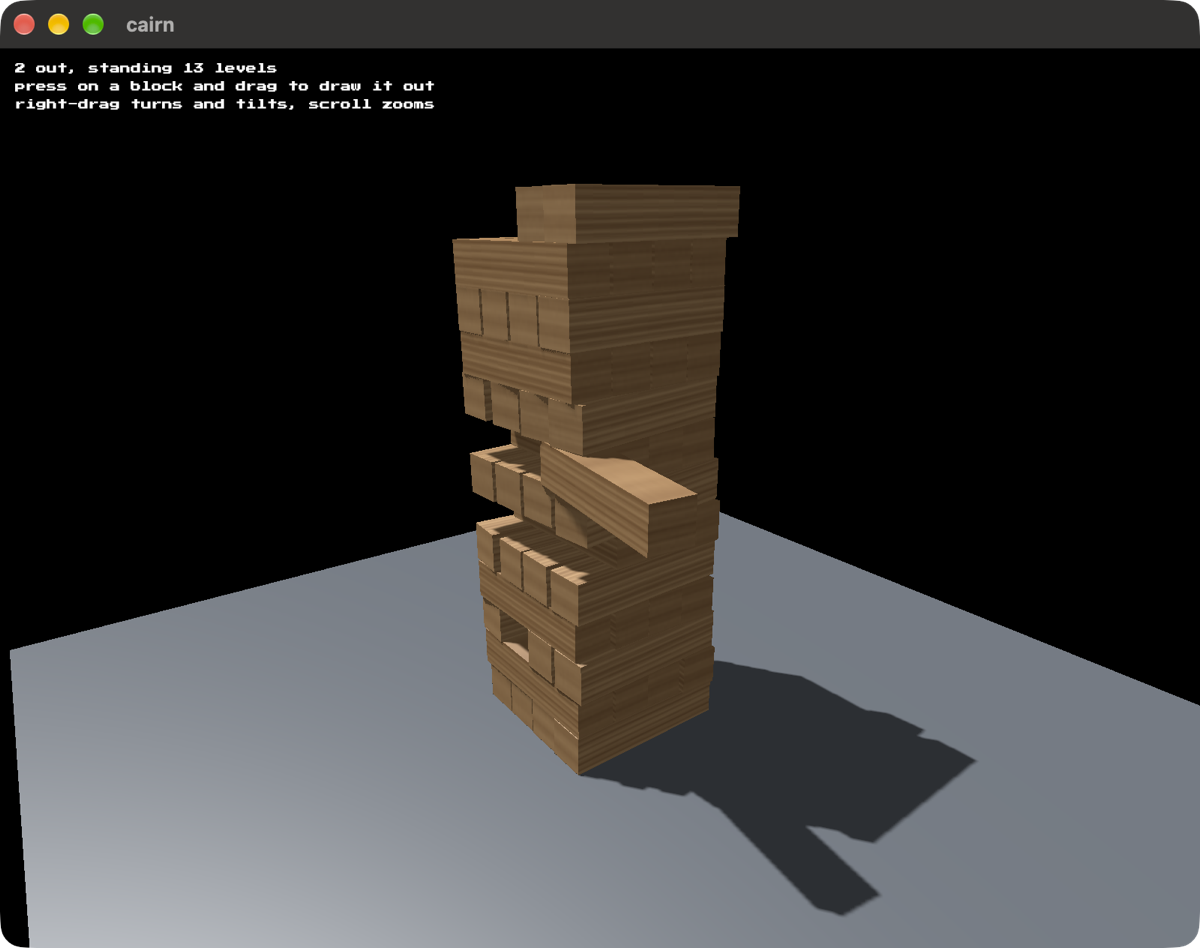
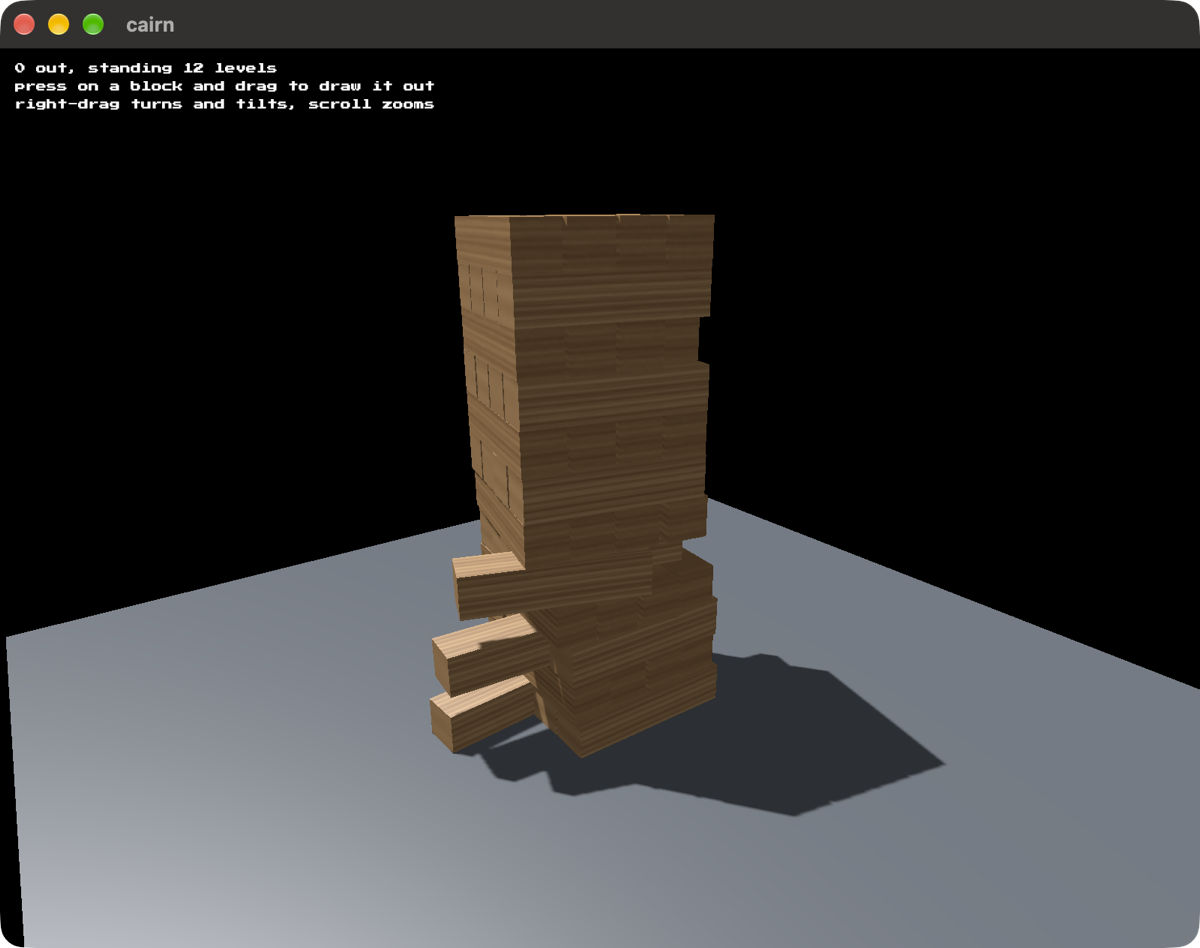
Draw blocks out for the camera
Takes --screenshot, which pulls three blocks clear and leaves a fourth proud, then holds still. The game is the holes, and the opening frame is a stack of wood nobody has touched.

diff --git a/src/main.rs b/src/main.rs
@@ -50,7 +50,73 @@ fn hit_block(ray: &Ray, middle: Vec3, turn: Quat, half: Vec3) -> Option<f32> {
     }
 }
 
+/// Whether this run is only here to be photographed, for `refresh-screenshots`
+/// in the project above.
+fn staged() -> bool {
+    std::env::args().any(|arg| arg == "--screenshot")
+}
+
+/// Pulls a few blocks for the camera and leaves one proud. See
+/// `refresh-screenshots`.
+///
+/// The opening frame is a tower nobody has touched, which is a photograph of a
+/// stack of wood. The game is the holes, so this takes three out and leaves a
+/// fourth half drawn, which is the move of leaving one proud while you think.
+///
+/// Done in one go rather than over real seconds, because the shutter is on a
+/// timer and will not wait for a tower to settle between pulls.
+fn pose(run: &mut Run) {
+    let step = 1.0 / 120.0;
+    let settle = |run: &mut Run, seconds: f32| {
+        let mut at = 0.0;
+        while at < seconds {
+            run.step(step);
+            at += step;
+        }
+    };
+
+    let mut taken = 0;
+    for which in 0..run.blocks().len() {
+        if taken == 3 {
+            break;
+        }
+        if !run.may_take(which) || which % 7 != 2 {
+            continue;
+        }
+        let Some(along) = run.along(which) else {
+            continue;
+        };
+
+        run.grab(which, along);
+        run.ask_for(PULLED_CLEAR);
+        settle(run, 1.2);
+        run.let_go();
+        settle(run, 1.4);
+        taken += 1;
+    }
+
+    // and one left half out of a middle level
+    for which in (0..run.blocks().len()).rev() {
+        if run.may_take(which) && which % 5 == 1 {
+            if let Some(along) = run.along(which) {
+                run.grab(which, along);
+                run.ask_for(PULLED_PROUD);
+                settle(run, 0.9);
+                run.let_go();
+                settle(run, 0.6);
+            }
+            break;
+        }
+    }
+}
+
+/// How far a staged pull takes a block out, and how far it leaves one proud.
+const PULLED_CLEAR: f32 = 2.2;
+const PULLED_PROUD: f32 = 0.55;
+
 struct Cairn {
+    /// Whether this run is held still to be photographed.
+    held: bool,
     block_mesh: Option<MeshId>,
     floor_mesh: Option<MeshId>,
     /// One board of wood per kind, so a tower is not forty eight copies of the
@@ -87,11 +153,18 @@ struct Cairn {
 
 impl Cairn {
     fn new() -> Self {
+        let mut run = Run::new();
+        let held = staged();
+        if held {
+            pose(&mut run);
+        }
+
         Self {
+            held,
             block_mesh: None,
             floor_mesh: None,
             boards: Vec::new(),
-            run: Run::new(),
+            run,
             cursor: Vec2::ZERO,
             picked: None,
             // The sun travels towards -x and -z, so a camera at +x and +z has
@@ -140,7 +213,9 @@ impl Game for Cairn {
         text_renderer: &mut TextRenderer,
         sound_system: &SoundSystem,
     ) {
-        self.run.step(dt);
+        if !self.held {
+            self.run.step(dt);
+        }
 
         self.waiting = (self.waiting - dt).max(0.0);
 

diff --git a/README.md b/README.md
@@ -4,6 +4,8 @@ A tower of blocks you take apart one at a time, putting each one you pull on
 top, until it comes down. One player, one tower, one number at the end: how many
 you got out before it fell.
 
+![A tower of grained wooden blocks, four to a level and turned a quarter turn each level, leaning with holes through it where blocks have been taken out, one block drawn half out of a middle level, and the ones already taken stacked on the top](media/screenshot.png)
+
 ```
 cargo run --release
 ```
